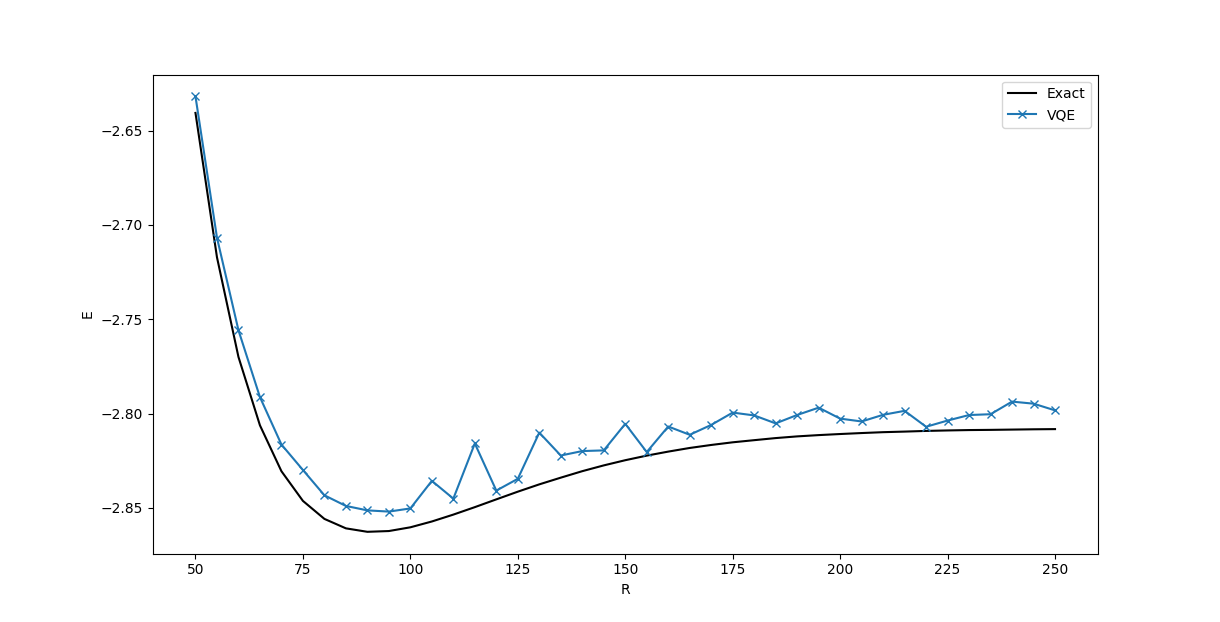
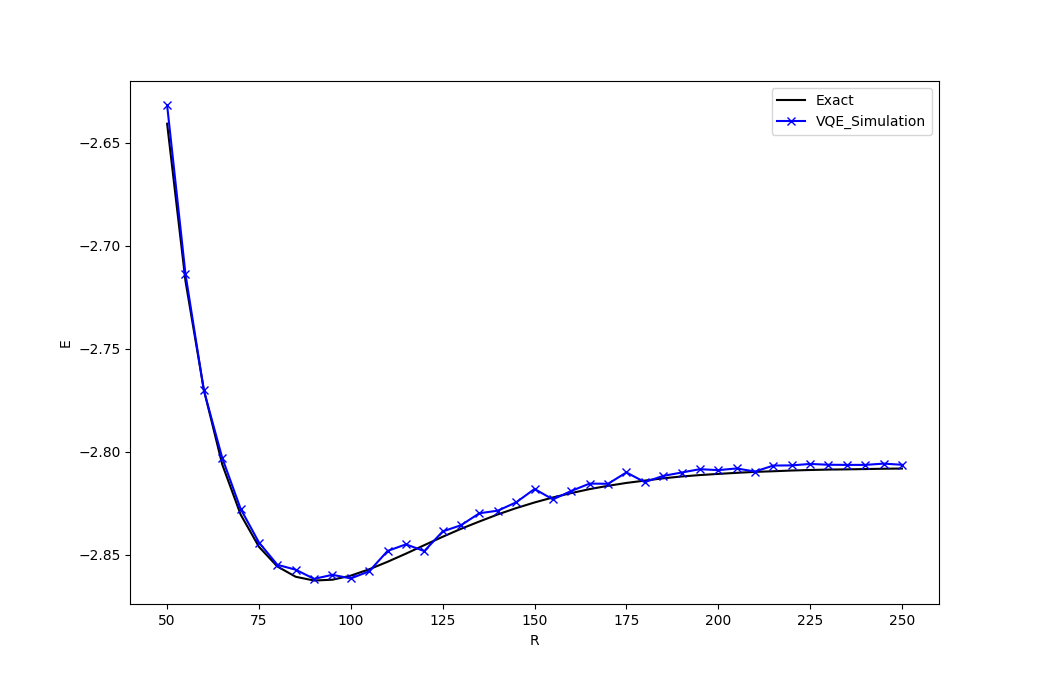
changed plotting functions and optimize code

diff --git a/scripts/QuantumCircuit.py b/scripts/QuantumCircuit.py
@@ -73,26 +73,15 @@ class QuantumCircuit:
 
         return E_H
 
-    def optimize(self,R,theta,c,eta,shots, minChange):
+    def optimize(self,R,theta,c,eta,shots, iterations):
         energy_list = []
         params = len(theta)
 
-        #compute initial energy
-        angles = [[theta[k]]*4 for k in range(params)]
-        basis  = [[1,1,0,0],[1,0,1,0]]
-        angles = np.array(angles + basis)
-
-        probs = self.ansatz(self.dev)(angles,shots=shots)
-        E_new = self.energy(R,probs[0], probs[1], probs[2], probs[3])
-        energy_list.append(E_new)
-
-        iterations = 0
-        while True:
-            E_old = E_new
-
+        for i in range(iterations):
             angles = [[]]*params
             basis = [[]]*2
             gradient = []
+
             for j in range(params):
                 e = np.zeros(params)
                 e[j] = 1
@@ -104,6 +93,8 @@ class QuantumCircuit:
                 angles = [angles[k] + [theta_minus[k]]*4 for k in range(params)]
                 basis  = [basis[0] + [1,1,0,0], basis[1] + [1,0,1,0]]
 
+            angles = [angles[kk] + [theta[kk]]*4 for kk in range(params)]
+            basis  = [basis[0] + [1,1,0,0], basis[1] + [1,0,1,0]]
             angles = np.array(angles+basis)
             probs = self.ansatz(self.dev)(angles,shots=shots)
 
@@ -113,20 +104,16 @@ class QuantumCircuit:
                 E_minus = self.energy(R,probs[8*j+4], probs[8*j+5], probs[8*j+6], probs[8*j+7])
                 gradient.append( (E_plus - E_minus)/(2*c) )  # approximate gradient
 
+            energy_list.append(self.energy(R,probs[8*params], probs[8*params+1], probs[8*params+2], probs[8*params+3]))
             theta = theta - eta*np.array(gradient)  # update the angles using gradient descent!
 
-            #new energy
-            angles = [[theta[k]]*4 for k in range(params)]
-            basis  = [[1,1,0,0],[1,0,1,0]]
-            angles = np.array(angles + basis)
+        #final energy
+        angles = [[theta[k]]*4 for k in range(params)]
+        basis  = [[1,1,0,0],[1,0,1,0]]
+        angles = np.array(angles + basis)
 
-            probs = self.ansatz(self.dev)(angles,shots=shots)
-            E_new = self.energy(R,probs[0], probs[1], probs[2], probs[3])
-            energy_list.append(E_new)
-            iterations += 1
+        probs = self.ansatz(self.dev)(angles,shots=shots)
+        E_final = self.energy(R,probs[0], probs[1], probs[2], probs[3])
+        energy_list.append(E_final)
 
-            changeInE = np.abs(E_new-E_old)
-            if changeInE<minChange:
-                break
-
-        return energy_list, iterations
+        return energy_list

diff --git a/scripts/main.py b/scripts/main.py
@@ -10,16 +10,26 @@ theta = 2*np.pi*np.random.rand(8)
 c = 0.05*2*np.pi
 eta = 0.5
 shots = 8192
+iterations = 50
+RRange = [50,250]
+parameters = np.loadtxt("HamiltonianParameters.txt")
+RArray = parameters[int(RRange[0]/5-1):int(RRange[1]/5),0]
+
+exactE = [ex.exactEnergy(R) for R in RArray]
 
 dev1 = qml.device("default.qubit", wires=2)
-dev2 = qml.device('qiskit.ibmq',wires=2,shots=shots,backend='ibmq_quito')
+circuitSim = qc.QuantumCircuit(dev1)
+approxESim = [circuitSim.optimize(R, theta, c, eta, shots, iterations)[-1] for R in RArray]
+
+#dev2 = qml.device('qiskit.ibmq',wires=2,shots=shots,backend='ibmq_quito')
 
 # circuitSimulation = qc.QuantumCircuit(dev1)
-# energy_listSim, iterationsSim = circuitSimulation.optimize(R,theta,c,eta,shots,0.001)
+# energy_listSim = circuitSimulation.optimize(R,theta,c,eta,shots,iterations)
 
-circuitReal = qc.QuantumCircuit(dev2)
-energy_listRe, iterationsRe = circuitReal.optimize(R,theta,c,eta,shots,0.001)
+# circuitReal = qc.QuantumCircuit(dev2)
+# energy_listRe, iterationsRe = circuitReal.optimize(R,theta,c,eta,shots,0.001)
 
-# plots
-plots.plotOptimisation(R,energy_list,iterations)
-#plots.plotEAgainstR(theta, c, eta, shots,[50,250] ,0.001)
+
+#plots.plotOptimisation(R,energy_listSim,iterations)
+
+plots.plotEAgainstR(RArray,exactE,approxESim)

diff --git a/scripts/plots.py b/scripts/plots.py
@@ -19,16 +19,13 @@ def plotOptimisation(R,energy_list,iterations):
 	plt.show()
 	fig.savefig('../plots/optimizationPlot.png',format='png')
 
-def plotEAgainstR(dev,theta,c,eta,shots,RRange,minChange):
-	parameters = np.loadtxt("HamiltonianParameters.txt")
-	RArray = parameters[int(RRange[0]/5-1):int(RRange[1]/5),0]
-	exactE = [ex.exactEnergy(R) for R in RArray]
-	circuit = qc.QuantumCircuit(dev)
-	approxE = [circuit.optimize(R, theta, c, eta, shots, minChange)[0][-1] for R in RArray]
-
+def plotEAgainstR(RArray,exactE,approxESim,approxE_IBM=None):
 	fig, ax = plt.subplots()
 	ax.plot(RArray,exactE,'k-',label='Exact')
-	ax.plot(RArray,approxE,'x-',label='VQE')
+	ax.plot(RArray,approxESim,'bx-',label='VQE_Simulation')
+	if approxE_IBM:
+		ax.plot(RArray,approxE_IBM,'or-',label='VQE_IBM')
+
 	ax.set_xlabel('R')
 	ax.set_ylabel('E')
 	ax.legend()
